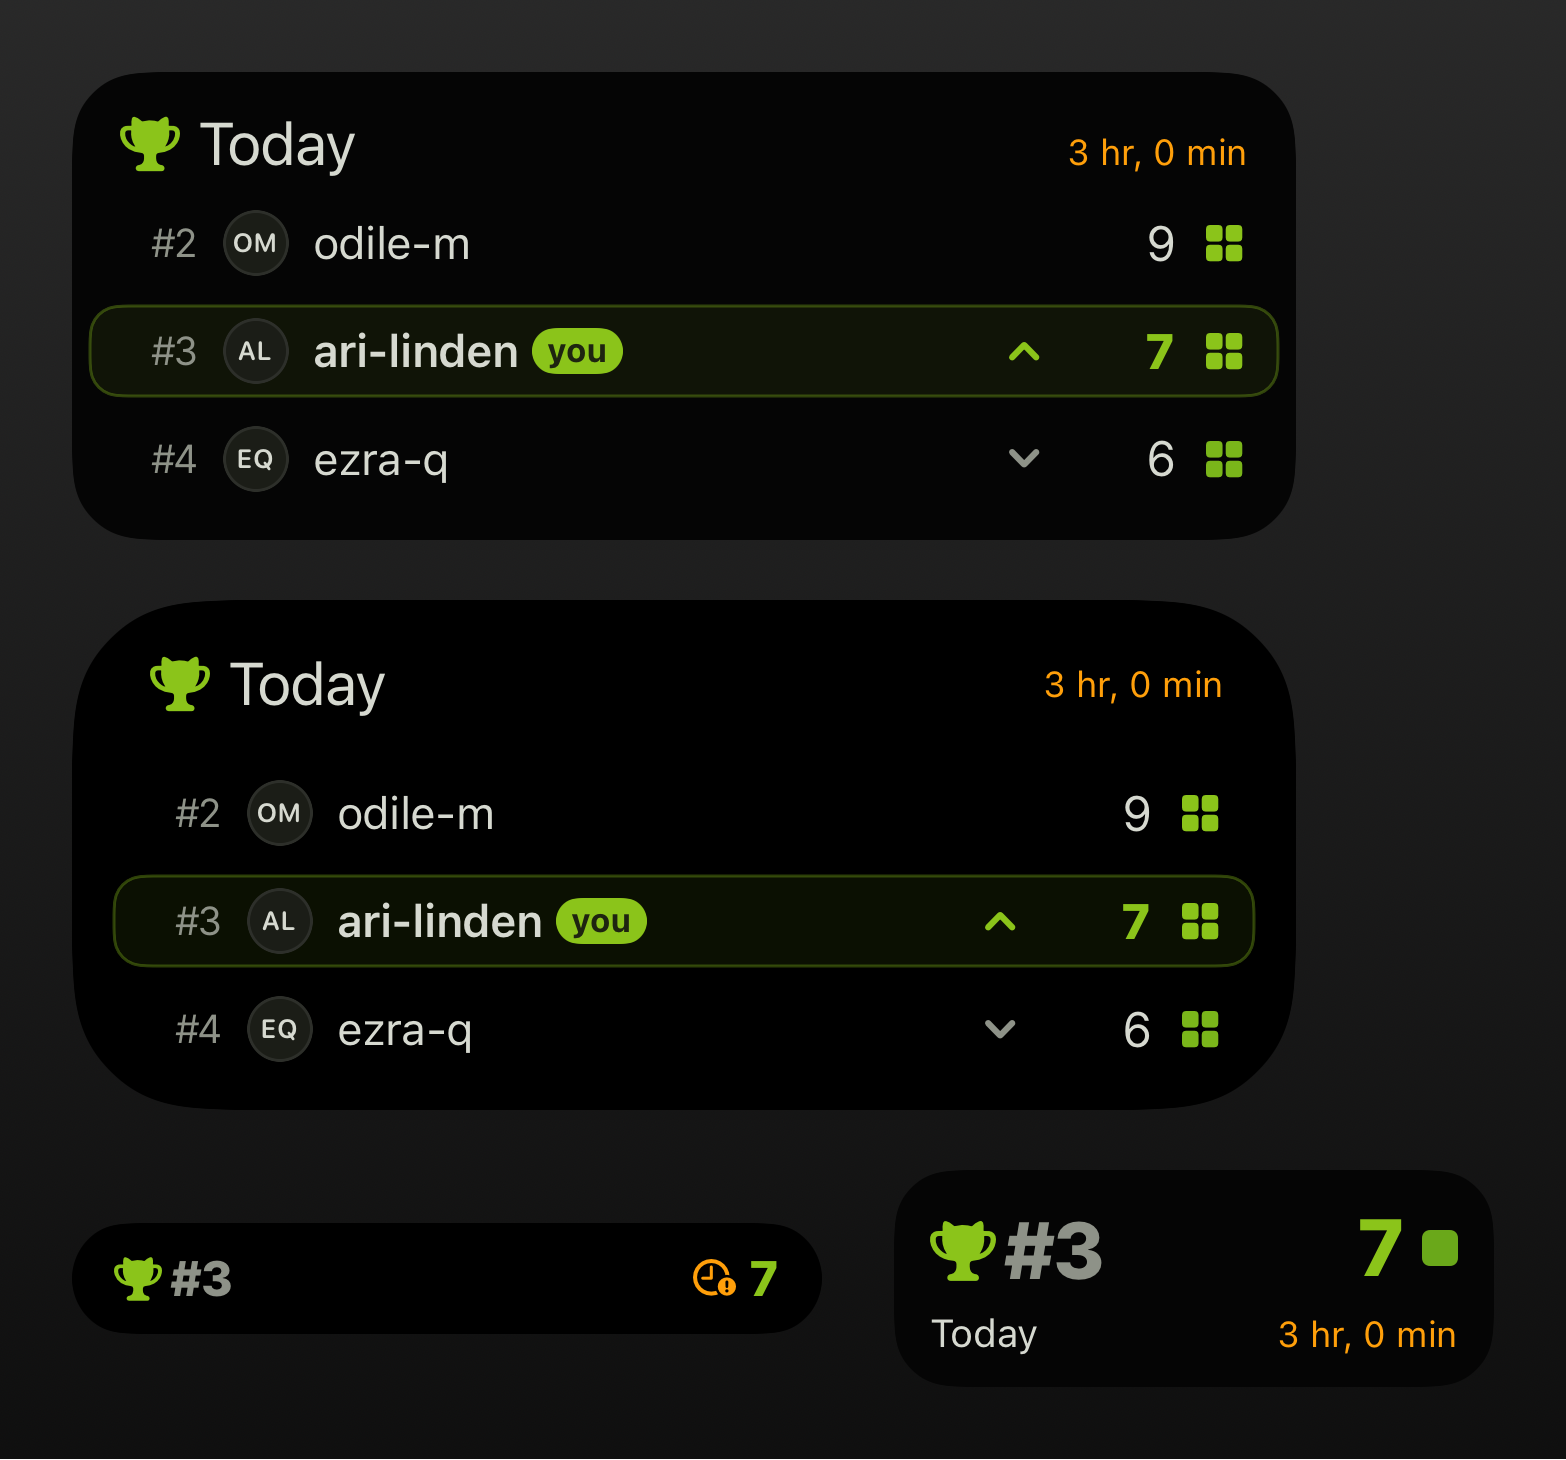
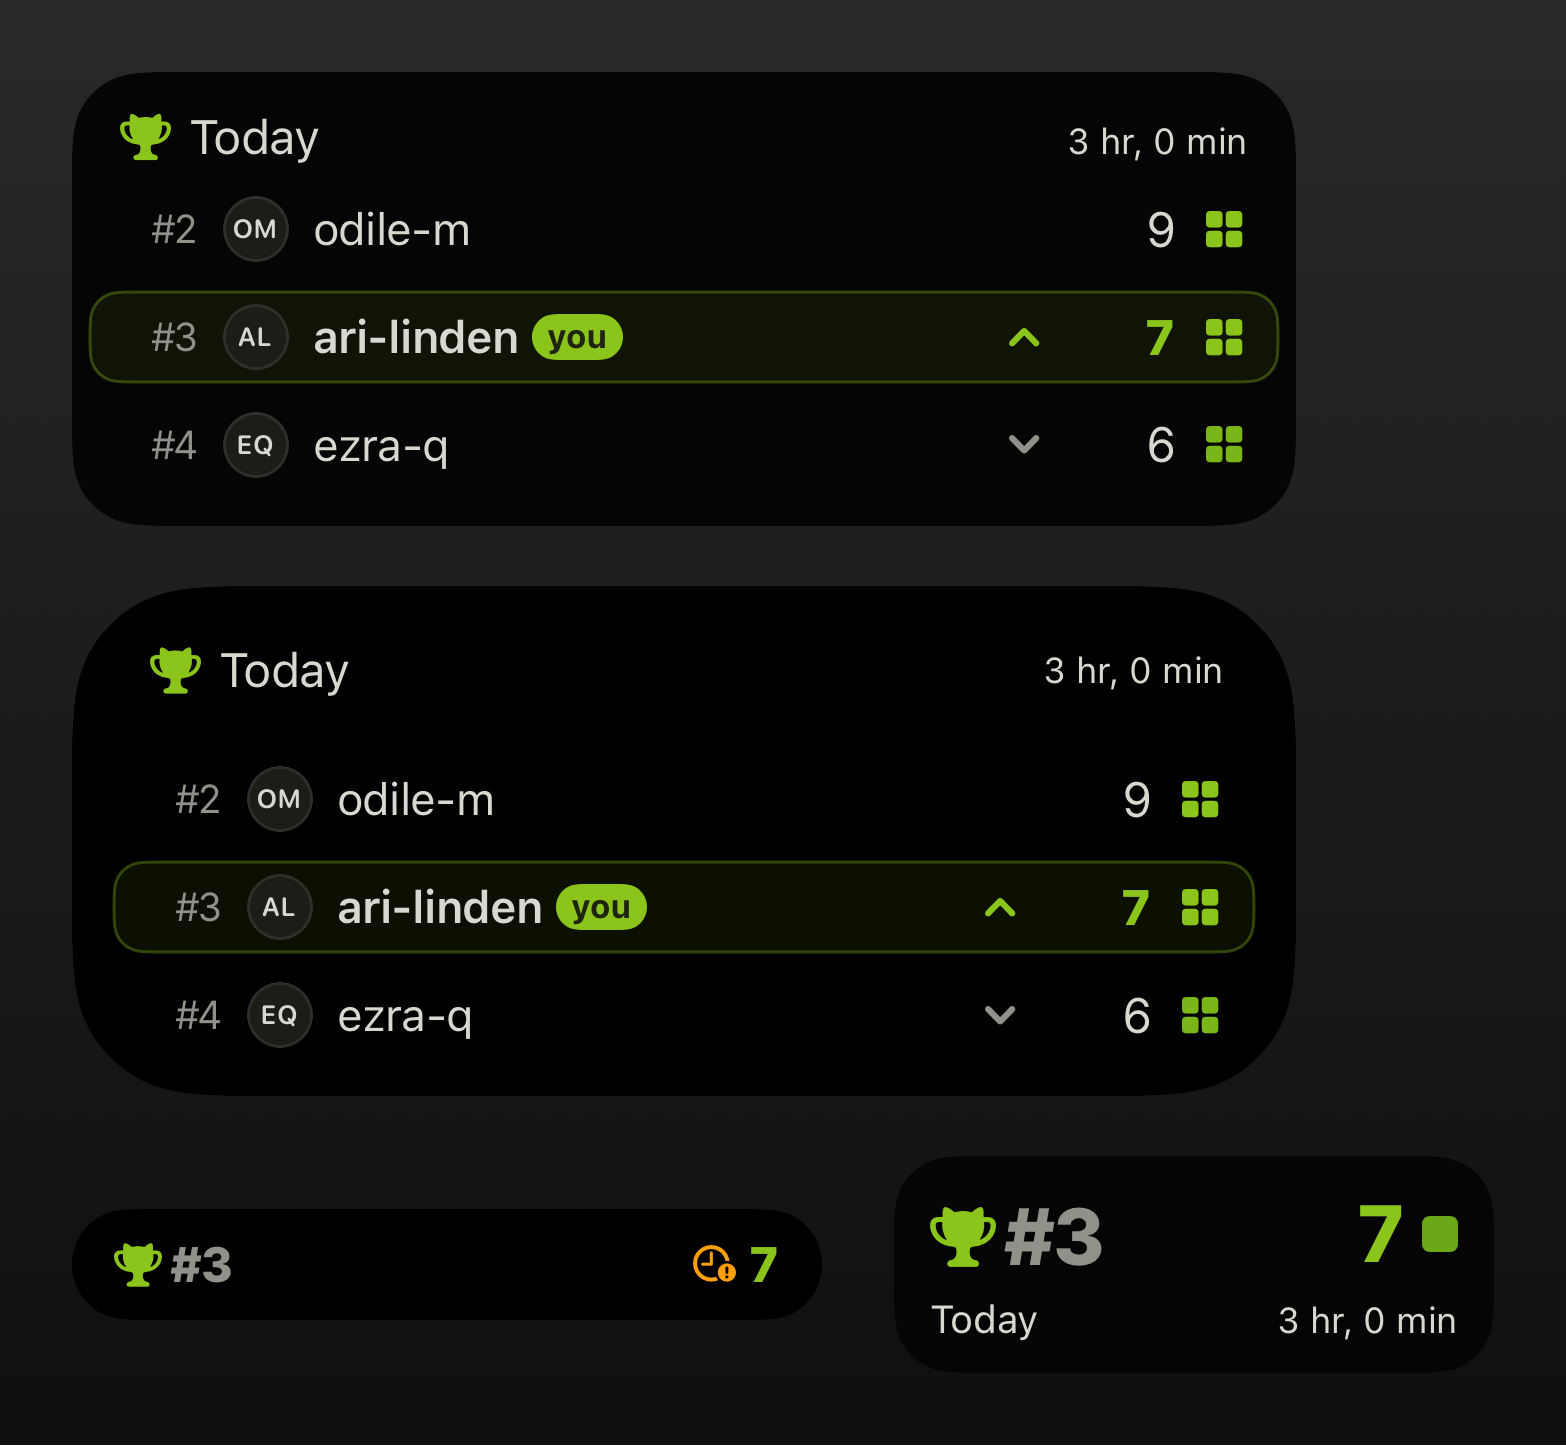
Keep the update age grey and set the Window title to 16 pt (#81)
* Keep the update age grey and set the Window title to 16 pt

The counting-up age no longer turns amber when the numbers are stale:
its value already says how old they are. The other stale cues stay
(colors step down; the compact island keeps its clock). "Today" and its
trophy are a little smaller, 16 pt.

* Widget refresh: renders with the grey age and 16 pt title

---------

diff --git a/CommitStandingsLiveRank/LiveRankLiveActivity.swift b/CommitStandingsLiveRank/LiveRankLiveActivity.swift
@@ -14,7 +14,7 @@ import WidgetKit
 /// vertical Dynamic Island as well as the standard horizontal one. A missing count shows a
 /// placeholder, never zero, and an empty state says what it's waiting for. Once the content passes
 /// its stale date (20 minutes after the data), colors step down (lime to deep lime, white to soft)
-/// rather than fading, the Lock Screen's field goes dark, the age turns amber, and compact's count
+/// rather than fading, the Lock Screen's field goes dark, and compact's count
 /// gets a clock, since it has no room for the age. Tapping opens the Board on Live rank's Window.
 struct LiveRankLiveActivity: Widget {
     var body: some WidgetConfiguration {
@@ -90,7 +90,7 @@ extension LiveRankState {
     var hasLadder: Bool { competitorCount > 1 && contributions != nil }
 }
 
-/// The trophy and the Window ("Today", "7 days", "30 days") at 20 pt, heading Live rank and every
+/// The trophy and the Window ("Today", "7 days", "30 days") at 16 pt, heading Live rank and every
 /// system-size widget.
 struct LiveRankWindowLabel: View {
     let state: LiveRankState
@@ -99,10 +99,10 @@ struct LiveRankWindowLabel: View {
 
     var body: some View {
         HStack(spacing: 6) {
-            TrophyMark(size: 20, color: isStale ? .limeDeep : .lime)
+            TrophyMark(size: 17, color: isStale ? .limeDeep : .lime)
             if let window = state.contributionWindow {
                 Text(window.shortTitle)
-                    .font(.system(size: 20))
+                    .font(.system(size: 16))
                     .foregroundStyle(Color.soft)
                     .fixedSize()
             }
@@ -114,11 +114,10 @@ struct LiveRankWindowLabel: View {
 
 /// How long ago the numbers were updated, at 12 pt: "13 min, 36 sec", counting up every second
 /// without a reload (a date-relative `Text`), so you can tell at a glance whether they're current.
-/// Amber once they're stale. Left out of Share board's images (`showsUpdateAge`), where a
-/// still frozen at one moment would mislead.
+/// Always soft grey: its value says how old the numbers are. Left out of Share board's images
+/// (`showsUpdateAge`), where a still frozen at one moment would mislead.
 struct UpdateAge: View {
     let date: Date
-    @Environment(\.liveRankIsStale) private var isStale
     @Environment(\.showsUpdateAge) private var showsUpdateAge
 
     var body: some View {
@@ -126,7 +125,7 @@ struct UpdateAge: View {
             Text(date, style: .relative)
                 .font(.system(size: 12))
                 .monospacedDigit()
-                .foregroundStyle(isStale ? Color.warning : Color.soft)
+                .foregroundStyle(Color.soft)
                 .multilineTextAlignment(.trailing)
                 .lineLimit(1)
                 .accessibilityLabel(Text("Updated \(Text(date, style: .relative)) ago"))
@@ -430,8 +429,8 @@ struct LiveRankLockScreen: View {
 
 /// The small family: the CarPlay dashboard and Apple Watch's Smart Stack. It's read at a glance
 /// from the driver's seat, so there are no rows. Your rank and count sit on one line, then the
-/// Window and the age, or what Live rank is waiting for. Stale content steps its colors down and
-/// turns the age amber. CarPlay doesn't run buttons; a tap on iPhone opens the Board.
+/// Window and the age, or what Live rank is waiting for. Stale content steps its colors down.
+/// CarPlay doesn't run buttons; a tap on iPhone opens the Board.
 struct LiveRankSmall: View {
     let state: LiveRankState
     @Environment(\.liveRankIsStale) private var isStale

diff --git a/CommitStandingsLiveRank/CommittedWidget.swift b/CommitStandingsLiveRank/CommittedWidget.swift
@@ -8,7 +8,7 @@ import WidgetKit
 /// themselves: each timeline asks for the next one 15 minutes on, and `WidgetRefresh` refetches
 /// everyone's count first (iOS's reload budget may stretch that). Each size shows how long ago its
 /// numbers were updated, counting up. The timeline holds the snapshot, plus one more entry at its
-/// stale date (an hour after the data) that steps the colors down and turns the age amber. Without
+/// stale date (an hour after the data) that steps the colors down. Without
 /// a snapshot (not connected yet), the widget asks you to open Committed; the placeholder and
 /// gallery use a sample board.
 struct CommittedWidget: Widget {

diff --git a/CommitStandingsiOSTests/WidgetRefreshRenderTests.swift b/CommitStandingsiOSTests/WidgetRefreshRenderTests.swift
@@ -3,7 +3,7 @@ import Testing
 @testable import CommitStandingsiOS
 
 /// Every widget and Live rank presentation on the Sample board, with its numbers 13 min 36 sec
-/// old (fresh) and 3 hours old (stale): the 20 pt Window, the counting-up age, and no "to pass"
+/// old (fresh) and 3 hours old (stale): the 16 pt Window, the counting-up age, and no "to pass"
 /// line. The expanded and compact Dynamic Island are drawn from Live rank's own region views on a
 /// black island shape. Renders, not captures: the Simulator can't show widgets on a Home Screen,
 /// a Live Activity, or the Dynamic Island from here.

diff --git a/CommitStandingsLiveRank/CommittedWidgetViews.swift b/CommitStandingsLiveRank/CommittedWidgetViews.swift
@@ -6,7 +6,7 @@ import SwiftUI
 // depend on WidgetKit's timeline; the widgets in `CommittedWidget.swift` wrap these in their
 // configurations.
 //
-// Every system size heads itself as Live rank does: the trophy and the Window ("Today") at 20 pt,
+// Every system size heads itself as Live rank does: the trophy and the Window ("Today") at 16 pt,
 // and how long ago the numbers were updated ("13 min, 36 sec") counting up at 12 pt on the right,
 // or, where a small widget has no room beside the Window, on its own line.
 

diff --git a/CommitStandings/Store/WidgetSnapshot.swift b/CommitStandings/Store/WidgetSnapshot.swift
@@ -38,7 +38,7 @@ struct WidgetSnapshot: Codable, Equatable, Sendable {
     /// Rows the large widget has room for.
     static let topCount = 6
 
-    /// How long after its data a widget looks stale (colors stepped down, the age in amber). Longer
+    /// How long after its data a widget looks stale (colors stepped down). Longer
     /// than Live rank's 20 minutes: widgets refresh every 15 minutes at best, and iOS's reload
     /// budget can stretch that.
     static let staleInterval: TimeInterval = 60 * 60

diff --git a/PRODUCT.md b/PRODUCT.md
@@ -87,7 +87,7 @@ Committed for iPhone runs the same board, ranking, people sync, and visibility r
 - **Expanded Dynamic Island:** the person ranked directly above you, you, and the person directly below, in the board's own rows (rank, avatar, username, the **you** badge, today's movement chevron, Contributions, and the squares glyph), with the Window ("Today") beside the trophy and, on the right, how long ago the numbers were updated ("13 min, 36 sec"), counting up every second.
 - **Lock Screen:** the trophy and the Window with the same counting-up age on the right, then the same three rows.
 - Avatars in Live rank are small copies the app saves for everyone on the board each time it refreshes; someone whose avatar hasn't been saved yet shows initials.
-- With no visible rivals, Live rank shows your Contributions without a rank rather than `#1 of 1`, and the Lock Screen says "Just you so far". Before your count loads it shows placeholders, never zero, and the Lock Screen says "Waiting for your first count". Twenty minutes after its data, Live rank's colors step down (the lit squares behind a Lock Screen without rows go dark) and the age turns amber; the compact island, which has no room for the age, shows a clock beside your count.
+- With no visible rivals, Live rank shows your Contributions without a rank rather than `#1 of 1`, and the Lock Screen says "Just you so far". Before your count loads it shows placeholders, never zero, and the Lock Screen says "Waiting for your first count". Twenty minutes after its data, Live rank's colors step down (the lit squares behind a Lock Screen without rows go dark); the compact island, which has no room for the age, shows a clock beside your count.
 - Tapping Live rank opens the Board on Live rank's Window.
 - **Settings ▸ Live rank** has an on/off switch, a Window picker (Today by default, independent of the board's Window), and a status line. When Live Activities are off for Committed in iOS Settings, it says so and links there.
 - Live rank starts while the app is open, once you've connected GitHub and your board loads. It updates whenever the app refreshes: in the foreground, on pull-to-refresh, and during background app refresh, which iOS schedules when it chooses. It only updates when what it shows has changed. Hiding or showing someone, or changing Live rank's Window, updates it right away while the app is open. A Window change ends the activity and starts a new one.
@@ -102,7 +102,7 @@ Committed for iPhone runs the same board, ranking, people sync, and visibility r
 Committed's widgets show Live rank's Window: **Committed** (small, medium and large on the Home Screen; rectangular, inline and circular on the Lock Screen; the small size also shows in CarPlay and StandBy) and **Committed Board** (a small list made for StandBy).
 
 - **Every Home Screen size** is headed by the trophy and the Window ("Today", "7 days", "30 days"), with how long ago the numbers were updated ("13 min, 36 sec") counting up every second on the right. The small sizes put the age on its own line. The medium widget shows the person above you, you and the person below in the board's rows; the large widget shows the top six, with you below a rule when you're further down; the small widget shows your rank and count. The rectangular Lock Screen widget shows "#3 · 12 today" over the age; the inline one shows "#3 · 12 today".
-- **Updates:** the app updates the widgets whenever it refreshes. Between those, the widgets refresh themselves every 15 minutes: they re-read everyone's public contribution graph anonymously, as the app does (no token, no Committed relay), re-rank the board the app last saved, and carry today's movement on. iOS spends widget updates from a daily budget, so it can stretch 15 minutes to 30 or more; the counting-up age shows exactly how old the numbers are. Someone GitHub doesn't answer for keeps their last count (on Today, until midnight). A widget an hour past its data steps its colors down and turns the age amber.
+- **Updates:** the app updates the widgets whenever it refreshes. Between those, the widgets refresh themselves every 15 minutes: they re-read everyone's public contribution graph anonymously, as the app does (no token, no Committed relay), re-rank the board the app last saved, and carry today's movement on. iOS spends widget updates from a daily budget, so it can stretch 15 minutes to 30 or more; the counting-up age shows exactly how old the numbers are. Someone GitHub doesn't answer for keeps their last count (on Today, until midnight). A widget an hour past its data steps its colors down; the age stays grey, since its value already says how old the numbers are.
 - **The Sample board's** widgets never fetch: they show what the Sample board saved.
 - **Share board** images use the same widgets without the counting-up age; the timestamp under the widget says when the numbers are from.
 
